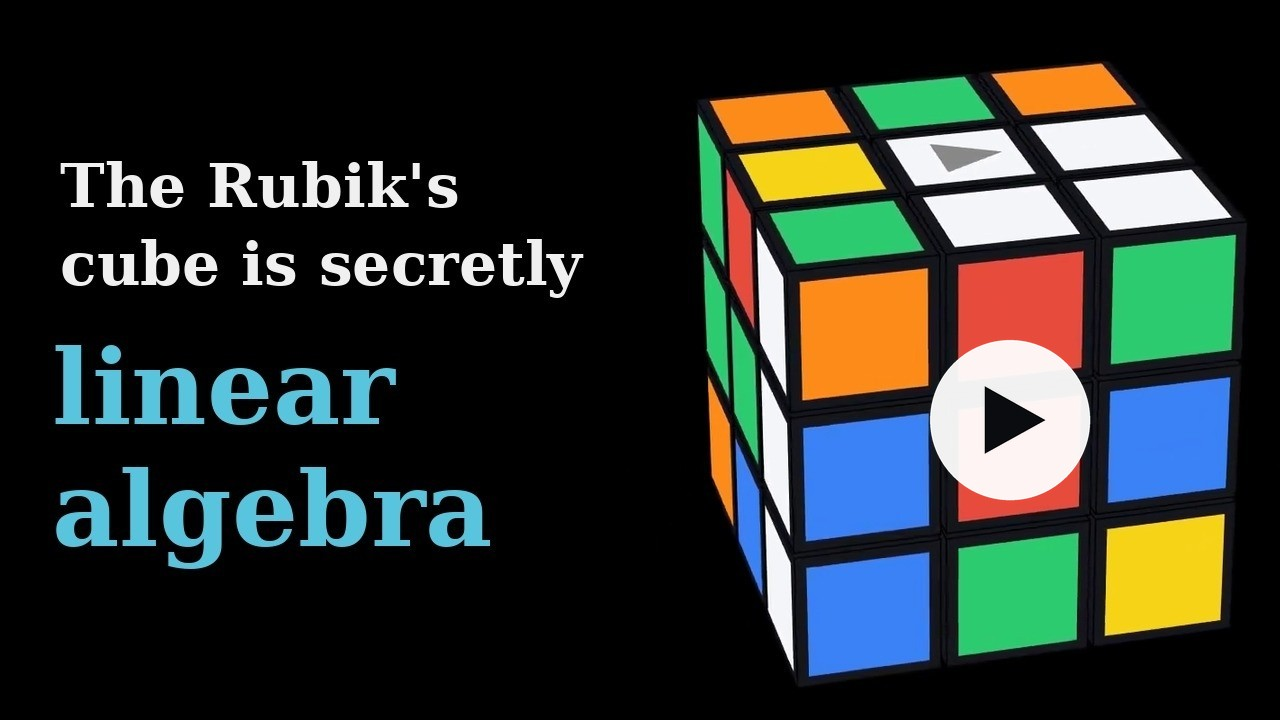
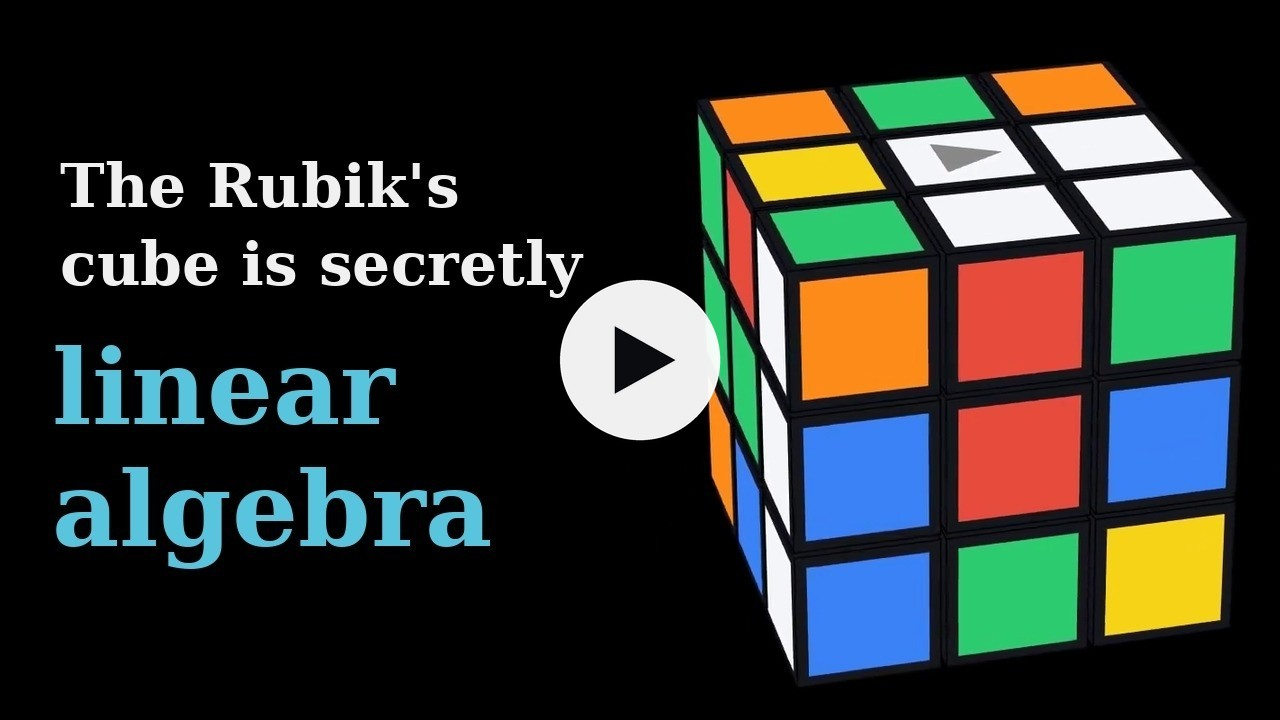
README thumbnail: center the play button (#35)
Centered in the image on both axes, in the gap between the title and the cube, where a play button is expected.

Changed region(s): [[0.7188, 0.4583, 0.875, 0.7028], [0.4375, 0.3667, 0.5625, 0.6111]]

diff --git a/README.md b/README.md
@@ -214,7 +214,7 @@ eigencube/
 │   ├── test_eigencube.py   # Unit test suite
 │   └── test_explainer_kit.py   # The explainer film's geometry helpers
 ├── img/                # Logo, icons, the GUI's snapshot & the film's thumbnail
-│   ├── explainer-thumbnail.jpg  # YouTube's thumbnail with a play button, linking to the film
+│   ├── explainer-thumbnail.jpg  # YouTube's thumbnail with a centered play button, linking to the film
 │   ├── gui-preview.png     # Written by eigencube_gui.render_frame_to_image
 │   ├── logo.svg            # Logo; generate_logo.py also writes the icons below
 │   ├── apple-touch-icon.png
